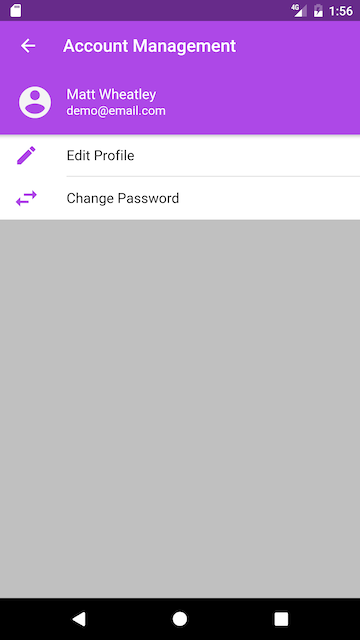
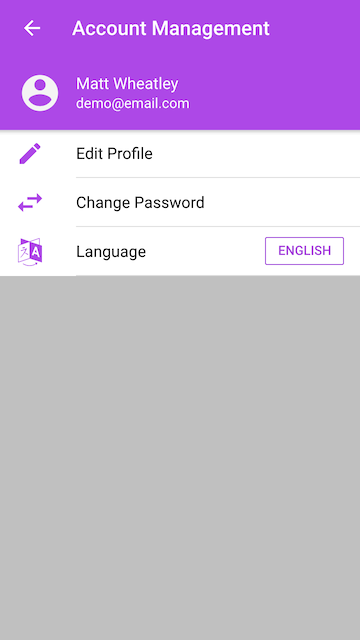
updated screenshots
* removed hom-page screenshots and section in README
* updated account menu screenshots to show language select

Changed region(s): [[0.0, 0.0, 1.0, 0.25], [0.0, 0.2812, 1.0, 0.4375], [0.0, 0.9375, 1.0, 1.0]]

diff --git a/README.md b/README.md
@@ -10,8 +10,6 @@ This repository extends [ionic2-meteor-boilerplate](https://github.com/mjwheatle
 ![sign in not registered](screenshots/android/validation/sign-in-not-registered.png) ![sign in incorrect password](screenshots/android/validation/sign-in-incorrect-password.png) ![email validation](screenshots/android/validation/email-validation.png) ![already registered toast](screenshots/android/validation/already-registered-toast.png) ![forgot password email validation](screenshots/android/validation/forgot-password-email-validation.png)
 ###Navigation Menu
 ![nav menu logged out](screenshots/android/logged-out-menu.png) ![nav menu logged in](screenshots/android/logged-in-menu.png) ![nav menu profile pic](screenshots/android/logged-in-profile-pic.png)
-###Home Page
-![home page](screenshots/android/home-page.png) ![home page bottom](screenshots/android/home-page-bottom.png) ![language select](screenshots/android/language-select.png)
 ###Account Management
 ![account menu page](screenshots/android/account-management/account-menu-page.png) ![edit profile page](screenshots/android/account-management/edit-profile-page.png)  ![edit profile action sheet](screenshots/android/account-management/edit-profile-action-sheet.png) ![edit profile with picture](screenshots/android/account-management/edit-profile-with-picture.png) ![account menu update profile pic](screenshots/android/account-management/account-menu-update-profile-pic.png) ![change password page](screenshots/android/account-management/change-password-page.png)
 
